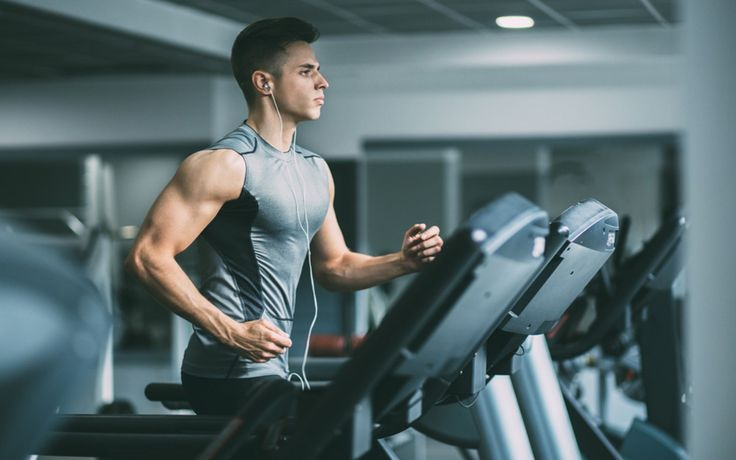
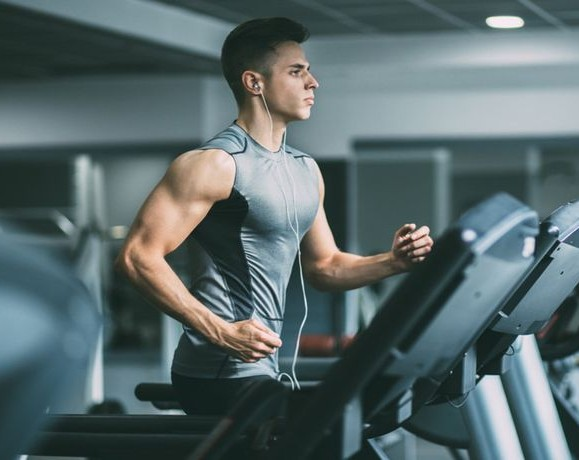
added delete account button

diff --git a/templates/navbar.html b/templates/navbar.html
@@ -1,4 +1,5 @@
-    <nav class="navbar navbar-expand-lg bg-light py-3 shadow-sm">
+
+<nav class="navbar navbar-expand-lg bg-light shadow-sm">
         <div class="container-fluid px-4">
         <!-- Logo -->
         <a class="navbar-brand fw-bold fs-2" href="#">Train2Conquer</a>
@@ -29,12 +30,14 @@
             <!-- Right Side -->
             <div class="d-flex align-items-center gap-4">
                 {% if current_user.is_authenticated %}
-                    <a href="{{url_for('logout')}}" class="btn btn-secondary">Log Out</a>
-                    <a href="{{url_for('fitness_profile')}}" class="btn btn-secondary">Edit Profile</a>
-                    <a href="{{url_for('logout')}}" class="btn btn-danger">Delete Account</a>
+                    <a href="{{url_for('logout')}}" class="btn btn-secondary btn-sm">Log Out</a>
+                    <a href="{{url_for('fitness_profile')}}" class="btn btn-secondary btn-sm">Edit Profile</a>
+                    <form action="{{ url_for('delete_account') }}" method="POST">
+                        <button class="btn btn-danger btn-sm" type="submit">Delete Account</button>
+                    </form> <!-- <a> tag will always send GET request -->
                 {% else %}
-                    <a href="{{url_for('login')}}" class="btn btn-primary">Log In</a>
-                    <a href="{{url_for('register')}}" class="btn btn-secondary">Sign Up</a>
+                    <a href="{{url_for('login')}}" class="btn btn-primary btn-sm">Log In</a>
+                    <a href="{{url_for('register')}}" class="btn btn-secondary btn-sm">Sign Up</a>
                 {% endif %}
             </div>
 

diff --git a/static/css/style.css b/static/css/style.css
@@ -2,7 +2,7 @@
     max-width: 50%;
 }
 .hero {
-    min-height: 700px;
+    min-height: 1200px;
     background-image: url("../assets/img/download.jpg");
     background-size: cover;
     background-position: center;
@@ -17,4 +17,10 @@
 ul {
     list-style: none;
     padding-left: 0;
+}
+nav{
+    min-height: 40px;
+    position: sticky;
+    top: 0;
+    z-index: 1000;
 }

diff --git a/main.py b/main.py
@@ -30,8 +30,8 @@ class Base(DeclarativeBase):# Create a base class for all database models.A data
 # "SQLALCHEMY_DATABASE_URI" tells Flask which database to use.
 # "sqlite:  ///" means use an SQLite database stored as a local file.
 # "train2conquer.db" is the database file that will be created in the project's instance folder (or configured location).
-app.config["SQLALCHEMY_DATABASE_URI"]=os.environ.get("DATABASE_URL","sqlite:///train2conquer.db") 
-#app.config["SQLALCHEMY_DATABASE_URI"]="sqlite:///train2conquer.db" 
+#app.config["SQLALCHEMY_DATABASE_URI"]=os.environ.get("DATABASE_URL","sqlite:///train2conquer.db") 
+app.config["SQLALCHEMY_DATABASE_URI"]="sqlite:///train2conquer.db" 
 db=SQLAlchemy(model_class=Base) ## Create a SQLAlchemy object and use our Base class for all models.
 #Connect SQLAlchemy to the Flask application.
 db.init_app(app) # now SQLAlchemy knows which app to use.
@@ -236,33 +236,31 @@ def home():
     print(workout_plans)
     return render_template("home.html",workout_plans=workout_plans)
 
-@app.route("delete-account",methods=["GET","POST"])
+@app.route("/delete-account",methods=["POST"])
 @login_required
 def delete_account():
-    user_id=current_user.id
-    # Delete fitness profile
-    fitness_profile=db.session.execute(db.select(FitnessProfile).where(FitnessProfile.user_id==user_id))
+    user_id = current_user.id
+    print("USER ID:", user_id)
+    fitness_profile = FitnessProfile.query.filter_by(user_id=user_id).first()
+    print("FITNESS PROFILE FOUND:", fitness_profile)
     if fitness_profile:
+        print("PROFILE USER ID:", fitness_profile.user_id)
         db.session.delete(fitness_profile)
+   
 
-    # Delete all workout plans
-    workout_plans=db.session.execute(db.select(WorkoutPlan).where(WorkoutPlan.user_id==user_id)).all()
+    workout_plans = WorkoutPlan.query.filter_by(user_id=user_id).all()
     for plan in workout_plans:
         db.session.delete(plan)
 
-    # Delete the user
     user = db.session.get(User, user_id)
+    print("USER FOUND:", user)
+    print("DELETE COMMITTED")
     if user:
         db.session.delete(user)
-
     db.session.commit()
-     # Log the user out
     logout_user()
-
-    flash("Your account and all related data have been deleted.", "success")
     return redirect(url_for('dashboard'))
 
- 
 
 @app.route("/")
 def dashboard():
